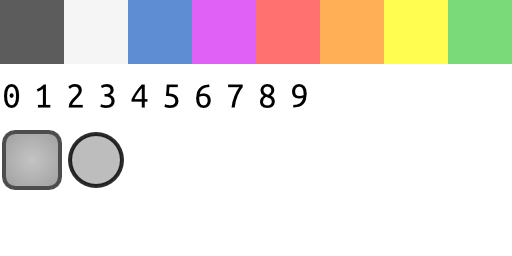
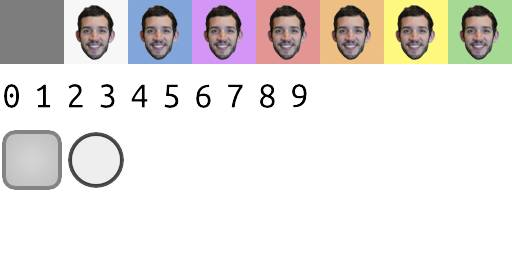
it's learning time

diff --git a/example/texture1.js b/example/texture1.js
@@ -1,0 +1,33 @@
+Stage({
+  name : "example",
+  image : { src : "../example1.png", ratio : 4 },
+  trim : 0.2,
+  textures : {
+    dark :   { x : 0*16, y : 0,  width : 16, height : 16 },
+    light :  { x : 1*16, y : 0,  width : 16, height : 16 },
+    blue :   { x : 2*16, y : 0,  width : 16, height : 16 },
+    purple : { x : 3*16, y : 0,  width : 16, height : 16 },
+    red :    { x : 4*16, y : 0,  width : 16, height : 16 },
+    orange : { x : 5*16, y : 0,  width : 16, height : 16 },
+    yellow : { x : 6*16, y : 0,  width : 16, height : 16 },
+    green :  { x : 7*16, y : 0,  width : 16, height : 16 },
+
+    rainbow : [ 'dark', 'light', 'blue', 'purple', 'red', 'orange', 'yellow', 'green' ],
+
+    digit : {
+      '0' : { x : 0*8,  y : 20, width : 8,  height : 8 },
+      '1' : { x : 1*8,  y : 20, width : 8,  height : 8 },
+      '2' : { x : 2*8,  y : 20, width : 8,  height : 8 },
+      '3' : { x : 3*8,  y : 20, width : 8,  height : 8 },
+      '4' : { x : 4*8,  y : 20, width : 8,  height : 8 },
+      '5' : { x : 5*8,  y : 20, width : 8,  height : 8 },
+      '6' : { x : 6*8,  y : 20, width : 8,  height : 8 },
+      '7' : { x : 7*8,  y : 20, width : 8,  height : 8 },
+      '8' : { x : 8*8,  y : 20, width : 8,  height : 8 },
+      '9' : { x : 9*8,  y : 20, width : 8,  height : 8 },
+    },
+
+    box :      { x : 0,    y : 32, width : 16, height : 16, top : 4, bottom : 4, left : 4, right : 4},
+    circle :   { x : 16,   y : 32, width : 16, height : 16}
+  }
+});

diff --git a/example/basic-grid/app1.js b/example/basic-grid/app1.js
@@ -1,0 +1,52 @@
+Stage(function(stage) {
+
+  var Math = Stage.Math, Mouse = Stage.Mouse;
+
+  //set the viewbox to be 500 by 500
+  
+
+  var j = 0, i = 0;
+  //create a variable column and append it to stage
+  
+  //pin the column with alignment 0.5 and spacing 1
+  
+
+  for (j = 0; j < 9; j++) {
+
+    //create a variabl row and append it to column with spacing 1
+    
+
+    for (i = 0; i < 9; i++) {
+      
+      //create a variable cell and set animate to 'rainbow'
+      
+
+      //append cell to row and pin it with pivot 0.5
+      
+
+      cell.on(Mouse.MOVE, function(point) {
+          this.gotoFrame(Math.random(this.length()));
+          this.pin({
+
+            //set X scale to be betwwen random 0.5 and 1.5
+            
+            //set Y scale to be between random 0.5 and 1.5
+            
+            //set X to skew between random  0 and 0.5
+            
+            //set Y skew between random  0 and 0.5
+            
+            //set rotation to be betwwen  random -5 and 5
+            
+            //set X to pivot between random  0.2 and 0.8
+            
+            //set Y to pivot between random  0.2 and 0.8
+            
+          });
+
+        return true;
+      });
+    }
+  }
+
+});

diff --git a/example/basic-grid/index.html b/example/basic-grid/index.html
@@ -1,7 +1,7 @@
 <!DOCTYPE html>
 <html><head>
 
-  <title>Grid - Stage.js</title>
+  <title>Stage.js demo</title>
   <meta name="viewport" content="user-scalable=no, initial-scale=1.0, maximum-scale=1.0, minimum-scale=1.0, width=device-width, height=device-height" />
 
   <link href="../example.css" rel="stylesheet" />
@@ -11,7 +11,7 @@
   <script src="../example.js"></script>
   <script src="../../dist/stage.web.js"></script>
 
-  <script src="app.js"></script>
-  <script src="../texture.js"></script>
+  <script src="app1.js"></script>
+  <script src="../texture1.js"></script>
 
 </body></html>

diff --git a/example/basic-grid/Resource/app.js b/example/basic-grid/Resource/app.js
@@ -8,11 +8,11 @@ Stage(function(stage) {
 
   var j = 0, i = 0;
   var column = Stage.column().appendTo(stage).pin('align', 0.5).spacing(1);
-  for (j = 0; j < 15; j++) {
+  for (j = 0; j < 9; j++) {
     var row = Stage.row().appendTo(column).spacing(1);
-    for (i = 0; i < 15; i++) {
+    for (i = 0; i < 9; i++) {
       // colors as frames
-      var cell = Stage.anim('rainbow').appendTo(row).pin('pivot', 10);
+      var cell = Stage.anim('rainbow').appendTo(row).pin('pivot', 0.5);
       cell.on(Mouse.MOVE, function(point) {
         if (this != last) {
           last = this;
